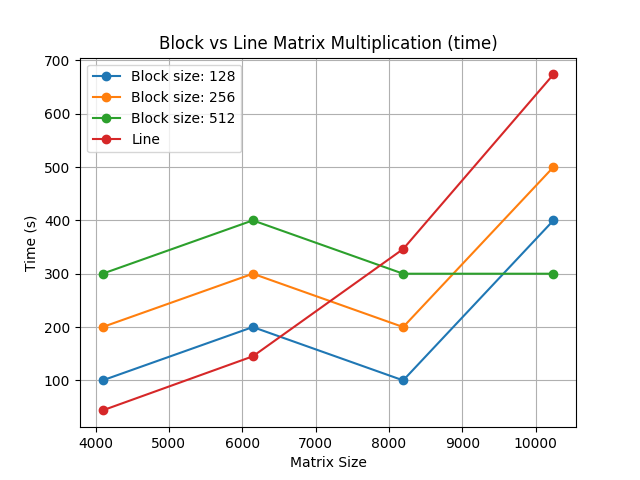
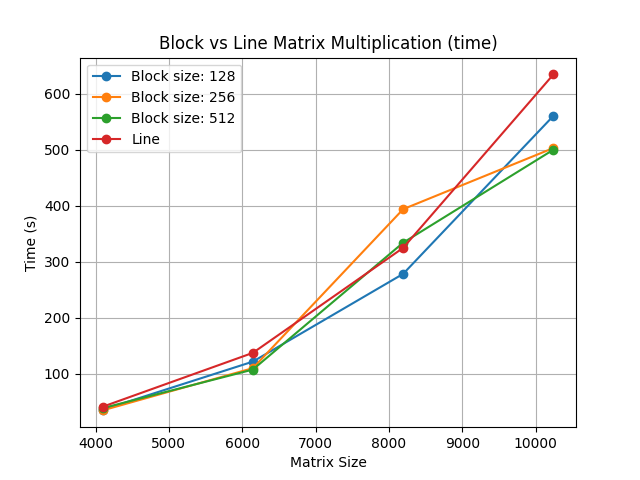
Added data, modified graphics accordingly

diff --git a/assign1/src/matrix_product.cpp b/assign1/src/matrix_product.cpp
@@ -181,7 +181,7 @@ void run_tests(ofstream& ofs, int start, int end, int jump, int eventSet, long l
 
 void run_tests_block(ofstream& ofs, int start, int end, int jump, const vector<int>& blockSizes, int eventSet, long long values[2]) {
     int ret;
-    ofs << "Block Size,Matrix Size,Time,L1_DCM, L2_DCM\n";
+    ofs << "matrix_size,block_size,time,L1_DCM, L2_DCM\n";
     for (int sz = start; sz <= end; sz += jump) {
         cout << "Matrix size: " << sz << endl;
         for (int bk : blockSizes) {
@@ -202,7 +202,7 @@ void run_tests_block(ofstream& ofs, int start, int end, int jump, const vector<i
 void measure_times(const string& fileName, int eventSet, long long values[2]) {
     cout << "Writing to file " << fileName << endl;
     ofstream ofs(fileName);
-    ofs << "mx_size,Time,L1_DCM,L2_DCM\n";
+    ofs << "matrix_size,time,L1_DCM,L2_DCM\n";
 
     run_tests(ofs, 600, 3000, 400, eventSet, values, OnMult);
     cout << "Completed running basic matrix multiplication tests" << endl;
@@ -239,7 +239,7 @@ int main(int argc, char* argv []) {
     if (ret != PAPI_OK)
     {
     	cout << "ERROR: PAPI_L1_DCM" << endl;
-    	// handle_error(ret);
+    	handle_error(ret);
     }
 
     ret = PAPI_add_event(EventSet, PAPI_L2_DCM);
@@ -279,12 +279,12 @@ int main(int argc, char* argv []) {
         col = lin;
 
         // Start counting
-        // ret = PAPI_start(EventSet);
-        // if (ret != PAPI_OK)
-        // {
-        // 	cout << "ERROR: Start PAPI" << endl;
-        // 	handle_error(ret);
-        // }
+        ret = PAPI_start(EventSet);
+        if (ret != PAPI_OK)
+        {
+        	cout << "ERROR: Start PAPI" << endl;
+        	handle_error(ret);
+        }
 
         switch (op) {
         case 1:
@@ -300,30 +300,30 @@ int main(int argc, char* argv []) {
             break;
         }
 
-        // ret = PAPI_stop(EventSet, values);
-        // if (ret != PAPI_OK)
-        // 	cout << "ERROR: Stop PAPI" << endl;
-        // printf("L1 DCM: %lld \n", values[0]);
-        // printf("L2 DCM: %lld \n", values[1]);
+        ret = PAPI_stop(EventSet, values);
+        if (ret != PAPI_OK)
+        	cout << "ERROR: Stop PAPI" << endl;
+        printf("L1 DCM: %lld \n", values[0]);
+        printf("L2 DCM: %lld \n", values[1]);
 
-        // ret = PAPI_reset(EventSet);
-        // if (ret != PAPI_OK)
-        // {
-        // 	std::cout << "FAIL reset" << endl;
-        // 	handle_error(ret);
-        // }
+        ret = PAPI_reset(EventSet);
+        if (ret != PAPI_OK)
+        {
+        	std::cout << "FAIL reset" << endl;
+        	handle_error(ret);
+        }
 
     } while (op != 0);
 
-    // ret = PAPI_remove_event(EventSet, PAPI_L1_DCM);
-    // if (ret != PAPI_OK)
-    // 	std::cout << "FAIL L1 remove event" << endl;
+    ret = PAPI_remove_event(EventSet, PAPI_L1_DCM);
+    if (ret != PAPI_OK)
+    	std::cout << "FAIL L1 remove event" << endl;
 
-    // ret = PAPI_remove_event(EventSet, PAPI_L2_DCM);
-    // if (ret != PAPI_OK)
-    // 	std::cout << "FAIL L2 remove event" << endl;
+    ret = PAPI_remove_event(EventSet, PAPI_L2_DCM);
+    if (ret != PAPI_OK)
+    	std::cout << "FAIL L2 remove event" << endl;
 
-    // ret = PAPI_destroy_eventset(&EventSet);
-    // if (ret != PAPI_OK)
-    // 	std::cout << "FAIL destroy" << endl;
+    ret = PAPI_destroy_eventset(&EventSet);
+    if (ret != PAPI_OK)
+    	std::cout << "FAIL destroy" << endl;
 }

diff --git a/assign1/doc/graphics/graphics.py b/assign1/doc/graphics/graphics.py
@@ -1,14 +1,17 @@
 import pandas as pd
 import matplotlib.pyplot as plt
 
-naive_df_go = pd.read_csv("naive_data_go.csv")
-line_df_go = pd.read_csv("line_data_go.csv")
+def read_csv(filename):
+    return pd.read_csv('data/' + filename)
 
-naive_df = pd.read_csv("naive_data.csv")
+naive_df_go = read_csv("naive_go.csv")
+line_df_go = read_csv("line_go.csv")
 
-line_df = pd.read_csv("line_data.csv")
-line_df_compare_block = pd.read_csv("line_data_compare_block.csv")
-block_df = pd.read_csv("block_data.csv")
+naive_df = read_csv("naive.csv")
+
+line_df = read_csv("line_600_3000.csv")
+line_df_compare_block = read_csv("line_4096_10240.csv")
+block_df = read_csv("block.csv")
 
 complete_line_df = pd.concat(
     [
@@ -18,19 +21,19 @@ complete_line_df = pd.concat(
     ignore_index=True,
 )
 
-line_df_multicore_inner = pd.read_csv("multicore_data_inner.csv")
-line_df_multicore_outer = pd.read_csv("multicore_data_outer.csv")
+line_df_multicore_inner = read_csv("multicore_inner.csv")
+line_df_multicore_outer = read_csv("multicore_outer.csv")
 
 # matrix multiplication: 2 * n ^ 3 floating points operations
 flops_func = lambda df: 2 * df["matrix_size"] ** 3 / df["time"] / 1e6
 for df in [complete_line_df, line_df_multicore_inner, line_df_multicore_outer]:
     df["flops"] = flops_func(df)
 
-speedup_func = lambda df: complete_line_df["time"] / df["time"]
+speedup_func = lambda line_df: lambda df: line_df["time"] / df["time"]
 efficiency_func = lambda df: df["speedup"] / df["num_threads"]
 
 for df in [line_df_multicore_inner, line_df_multicore_outer]:
-    df["speedup"] = speedup_func(df)
+    df["speedup"] = speedup_func(complete_line_df)(df)
     df["efficiency"] = efficiency_func(df)
 
 
@@ -50,22 +53,22 @@ def finish_plot(title, ylabel="Time (s)"):
     plt.clf()
 
 
-def plot_line_vs_block(y="time"):
+def plot_line_vs_block(y="time", ylabel="Time (s)"):
     for size in block_df["block_size"].unique():
         data_subset = block_df[block_df["block_size"] == size]
-        plot_line(data_subset, f"Block size: {size}")
+        plot_line(data_subset, f"Block size: {size}", y=y)
 
     plot_line(
         line_df_compare_block, label="Line", y=y
     )  # create a line for the line multiplication algorithm
-    finish_plot(f"Block vs Line Matrix Multiplication ({y})")
+    finish_plot(f"Block vs Line Matrix Multiplication ({y})", ylabel=ylabel)
 
 
-def plot_naive_vs_line(y="time"):
+def plot_naive_vs_line(y="time", ylabel="Time (s)"):
     plot_line(naive_df, label="Naive", y=y)
     plot_line(line_df, label="Line", y=y)
 
-    finish_plot(f"Naive vs Line Matrix Multiplication ({y})", ylabel="Number of L1 DCM")
+    finish_plot(f"Naive vs Line Matrix Multiplication ({y})", ylabel=ylabel)
 
 
 def plot_go_vs_cpp():
@@ -117,9 +120,9 @@ def plot_multicore_efficiency():
     finish_plot("Line Matrix Multiplication: Multicore Efficiency", ylabel="Efficiency")
 
 
-for variable in ["time", "L1_DCM", "L2_DCM"]:
-    plot_line_vs_block(variable)
-    plot_naive_vs_line(variable)
+for variable, label in [("time", "Time (s)"), ("L1_DCM", "Number of L1 DCM"), ("L2_DCM", "Number of L2 DCM")]:
+    plot_line_vs_block(variable, label)
+    plot_naive_vs_line(variable, label)
 
 
 plot_naive_go_vs_cpp()
@@ -130,3 +133,4 @@ plot_multicore_flops()
 plot_multicore_time()
 plot_multicore_speedup()
 plot_multicore_efficiency()
+
